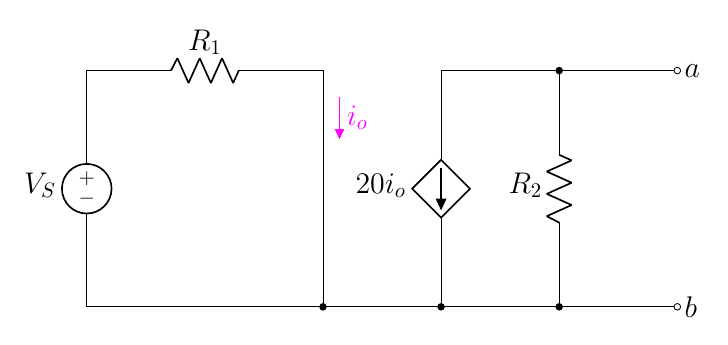
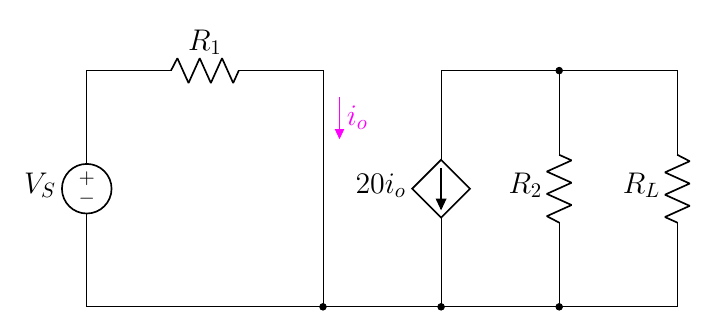
edit 4.52

diff --git a/1.8 Thevinin and Norton/4.5-4.6 Thevenin Norton/4.52(new).tex b/1.8 Thevinin and Norton/4.5-4.6 Thevenin Norton/4.52(new).tex
@@ -3,15 +3,16 @@
 \begin{circuitikz}[american,cute inductors]
     \input{../../preamble2.tex}
 
-    \draw(0,0) node[anchor=west]{$b$}
-        to[short,o-] ++(-10,0)
+    \draw(0,0)
+        to[short] ++(-10,0)
         to[V,l=\vsname{}] ++(0,4) 
         to[R,l=\rname{1}] ++(4,0)
         to[short,-*] ++(0,-4) ++(4,0)
         to[R,l=\rname{2}, *-*] ++(0,4)
         to[short] ++(-2,0)
         to[american controlled current source,l_=$20i_o$, -*] ++(0,-4) ++(2,4)
-        to[short,-o] ++(2,0) node[anchor=west]{$a$};
+        to[short] ++(2,0)
+        to[R,l_=\rname{L}] (0,0);
 
     %%% find %%%
     % node[anchor=west]{$a$}
